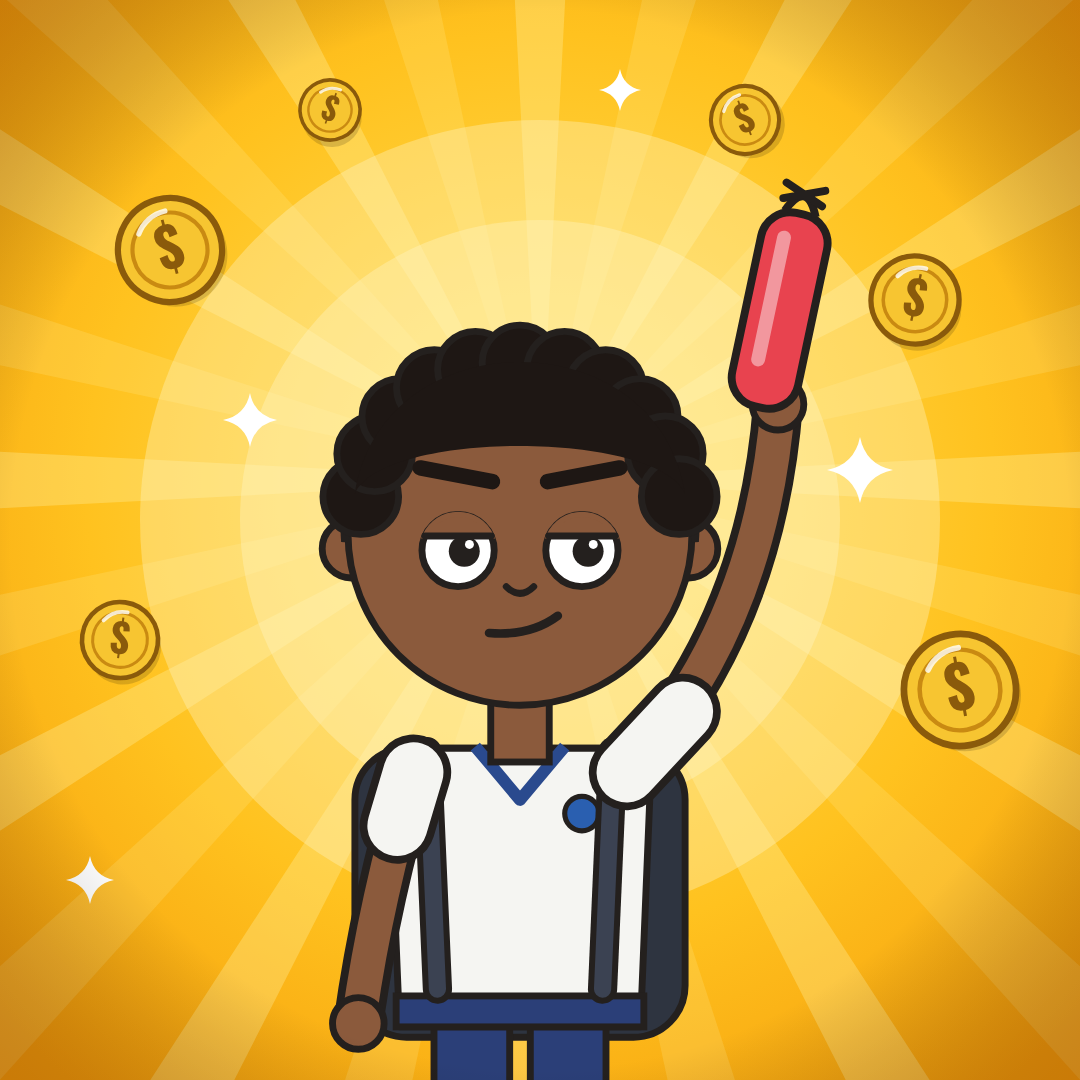
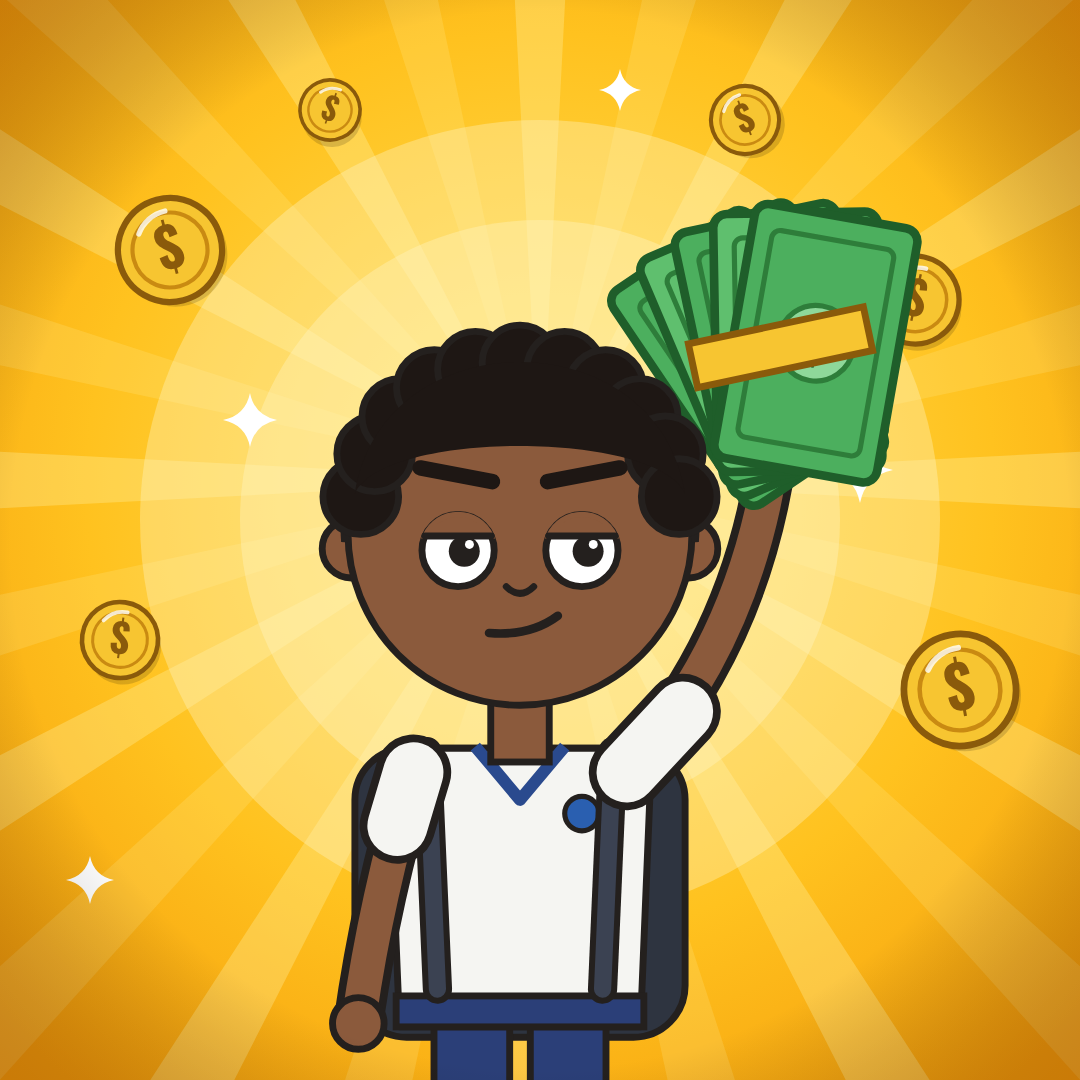
Foto de perfil com maço de dinheiro e bio do perfil
Claude-Session: https://claude.ai/code/session_016k7wjAUA19E25J2zqbbNuq

Changed region(s): [[0.55, 0.1528, 0.8556, 0.4889]]

diff --git a/meu-projeto/estudio/perfil.js b/meu-projeto/estudio/perfil.js
@@ -33,8 +33,20 @@ const f = (a) => fs.readFileSync(path.join(pasta, 'fontes', a)).toString('base64
     // brilhos
     const brilho = (x, y, k) => `<path d="M ${x} ${y - 30 * k} Q ${x + 5 * k} ${y - 5 * k} ${x + 30 * k} ${y} Q ${x + 5 * k} ${y + 5 * k} ${x} ${y + 30 * k} Q ${x - 5 * k} ${y + 5 * k} ${x - 30 * k} ${y} Q ${x - 5 * k} ${y - 5 * k} ${x} ${y - 30 * k} Z" fill="#fff"/>`;
     s += brilho(250, 420, 0.9) + brilho(860, 470, 1.1) + brilho(620, 90, 0.7) + brilho(90, 880, 0.8);
-    // Kevylem: meio corpo, confiante, erguendo um geladinho
-    s += kevylem({ x: 520, y: 1440, esc: 1.72, expr: 'orgulhoso', pose: 'ergue', t: 0.5, olhar: [0.6, -0.3], naMao: geladinho('#E8434F', 0, -50, 12, 1.15) });
+    // Kevylem: meio corpo, confiante, erguendo um maço de dinheiro
+    s += kevylem({ x: 520, y: 1440, esc: 1.72, expr: 'orgulhoso', pose: 'ergue', t: 0.5, olhar: [0.6, -0.3], naMao: maco() });
+    function maco() {
+      // maço de notas verdes com cinta amarela, em leque
+      let m = '<g transform="translate(0 -40) rotate(-12)">';
+      [-22, -11, 0, 11, 22].forEach((a, i) => {
+        m += `<g transform="rotate(${a} 0 60)"><rect x="-48" y="-70" width="96" height="150" rx="8" fill="${i % 2 ? '#5FBF6E' : '#4CAF5E'}" stroke="#1F5E2A" stroke-width="5"/>` +
+          `<rect x="-36" y="-56" width="72" height="122" rx="5" fill="none" stroke="#2E7D3A" stroke-width="3"/>` +
+          `<circle cx="0" cy="5" r="22" fill="#8ED89A" stroke="#2E7D3A" stroke-width="3"/>` +
+          `<text x="0" y="16" text-anchor="middle" font-family="Oswald" font-weight="700" font-size="30" fill="#1F5E2A">$</text></g>`;
+      });
+      m += '<rect x="-52" y="-6" width="104" height="26" fill="#F7C531" stroke="#8A5A0B" stroke-width="4"/>';
+      return m + '</g>';
+    }
     // vinheta suave nas bordas
     s += `<defs><radialGradient id="vin" cx="0.5" cy="0.5" r="0.7"><stop offset="0.7" stop-color="#000" stop-opacity="0"/><stop offset="1" stop-color="#7A3A00" stop-opacity="0.35"/></radialGradient></defs><rect width="1080" height="1080" fill="url(#vin)"/>`;
     document.getElementById('tela').innerHTML = s;

diff --git a/meu-projeto/publicacao/bio.md b/meu-projeto/publicacao/bio.md
@@ -1,0 +1,5 @@
+# Bio do perfil
+
+Kevylem, 17 anos, R$ 12 no bolso.
+Meta: sair rico do ensino médio 🎓
+Você decide o próximo episódio 👇
